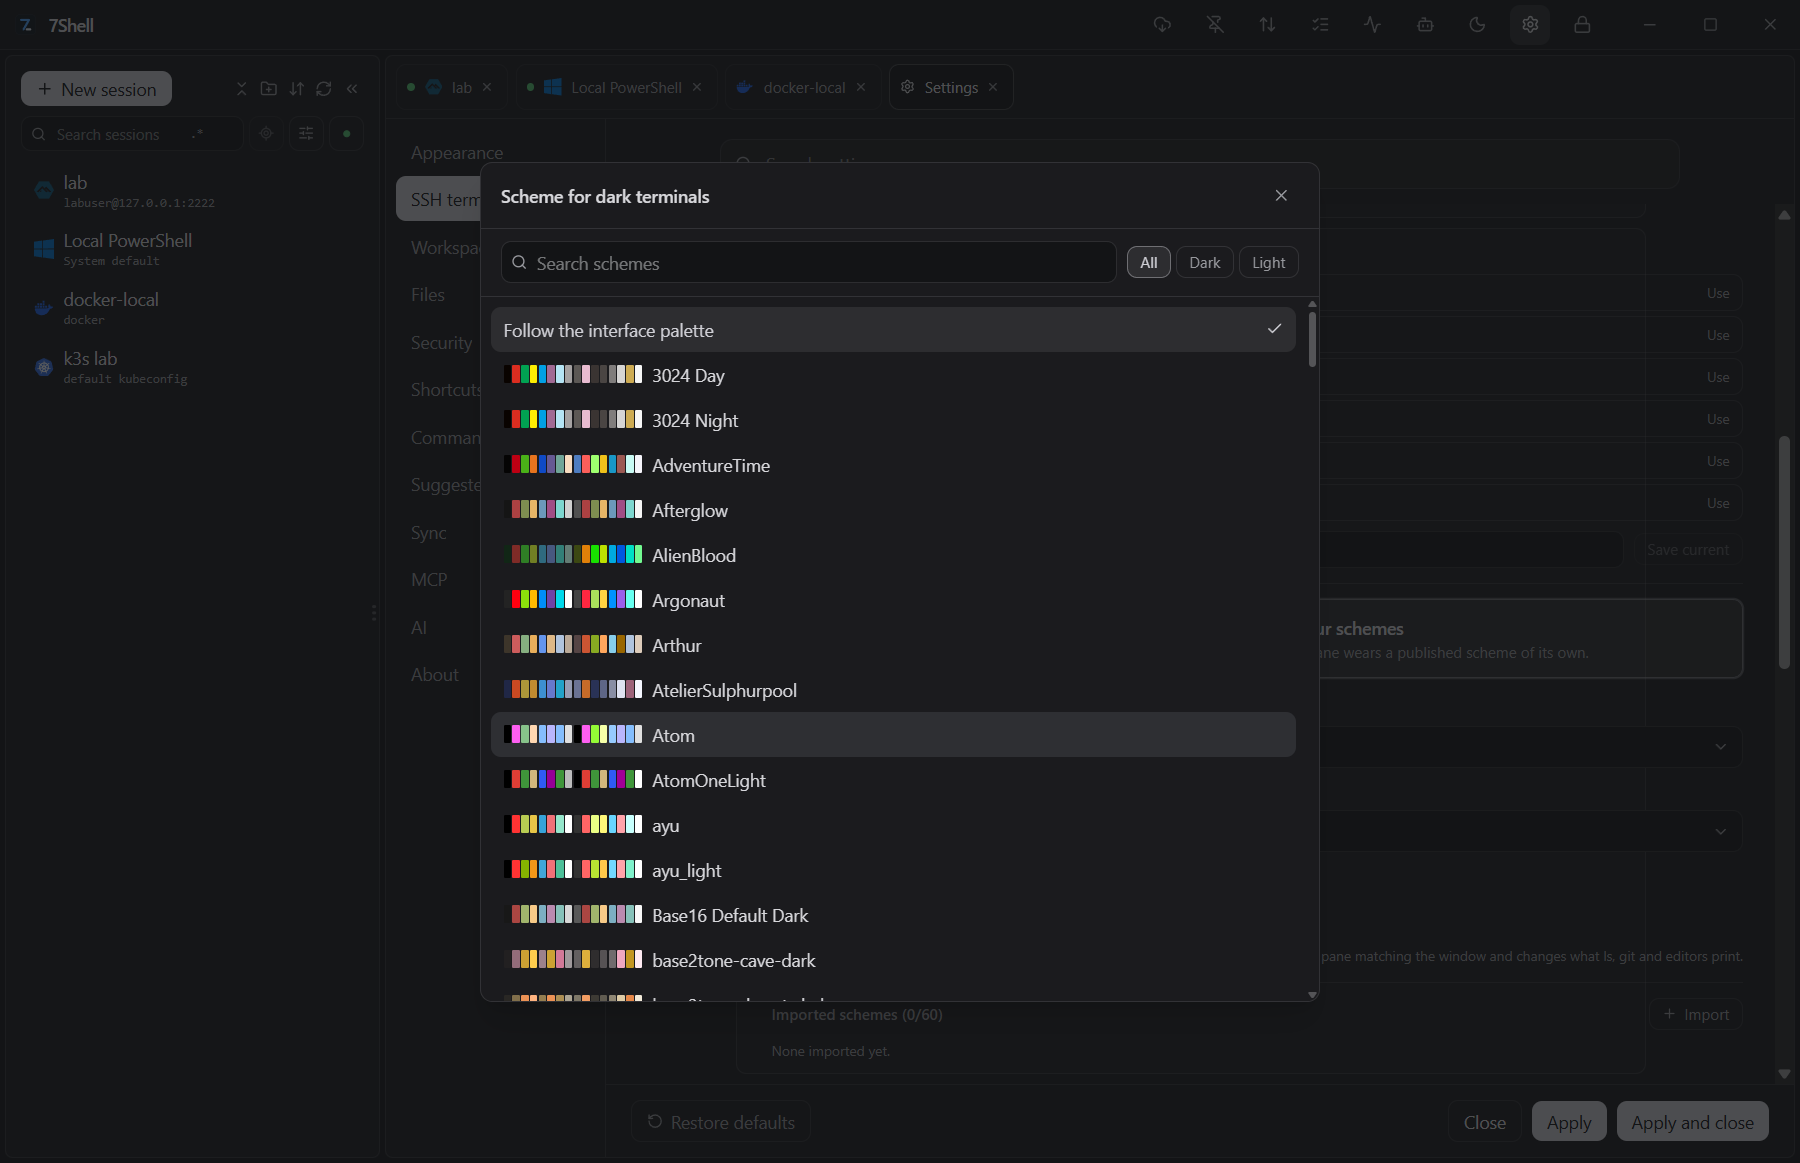
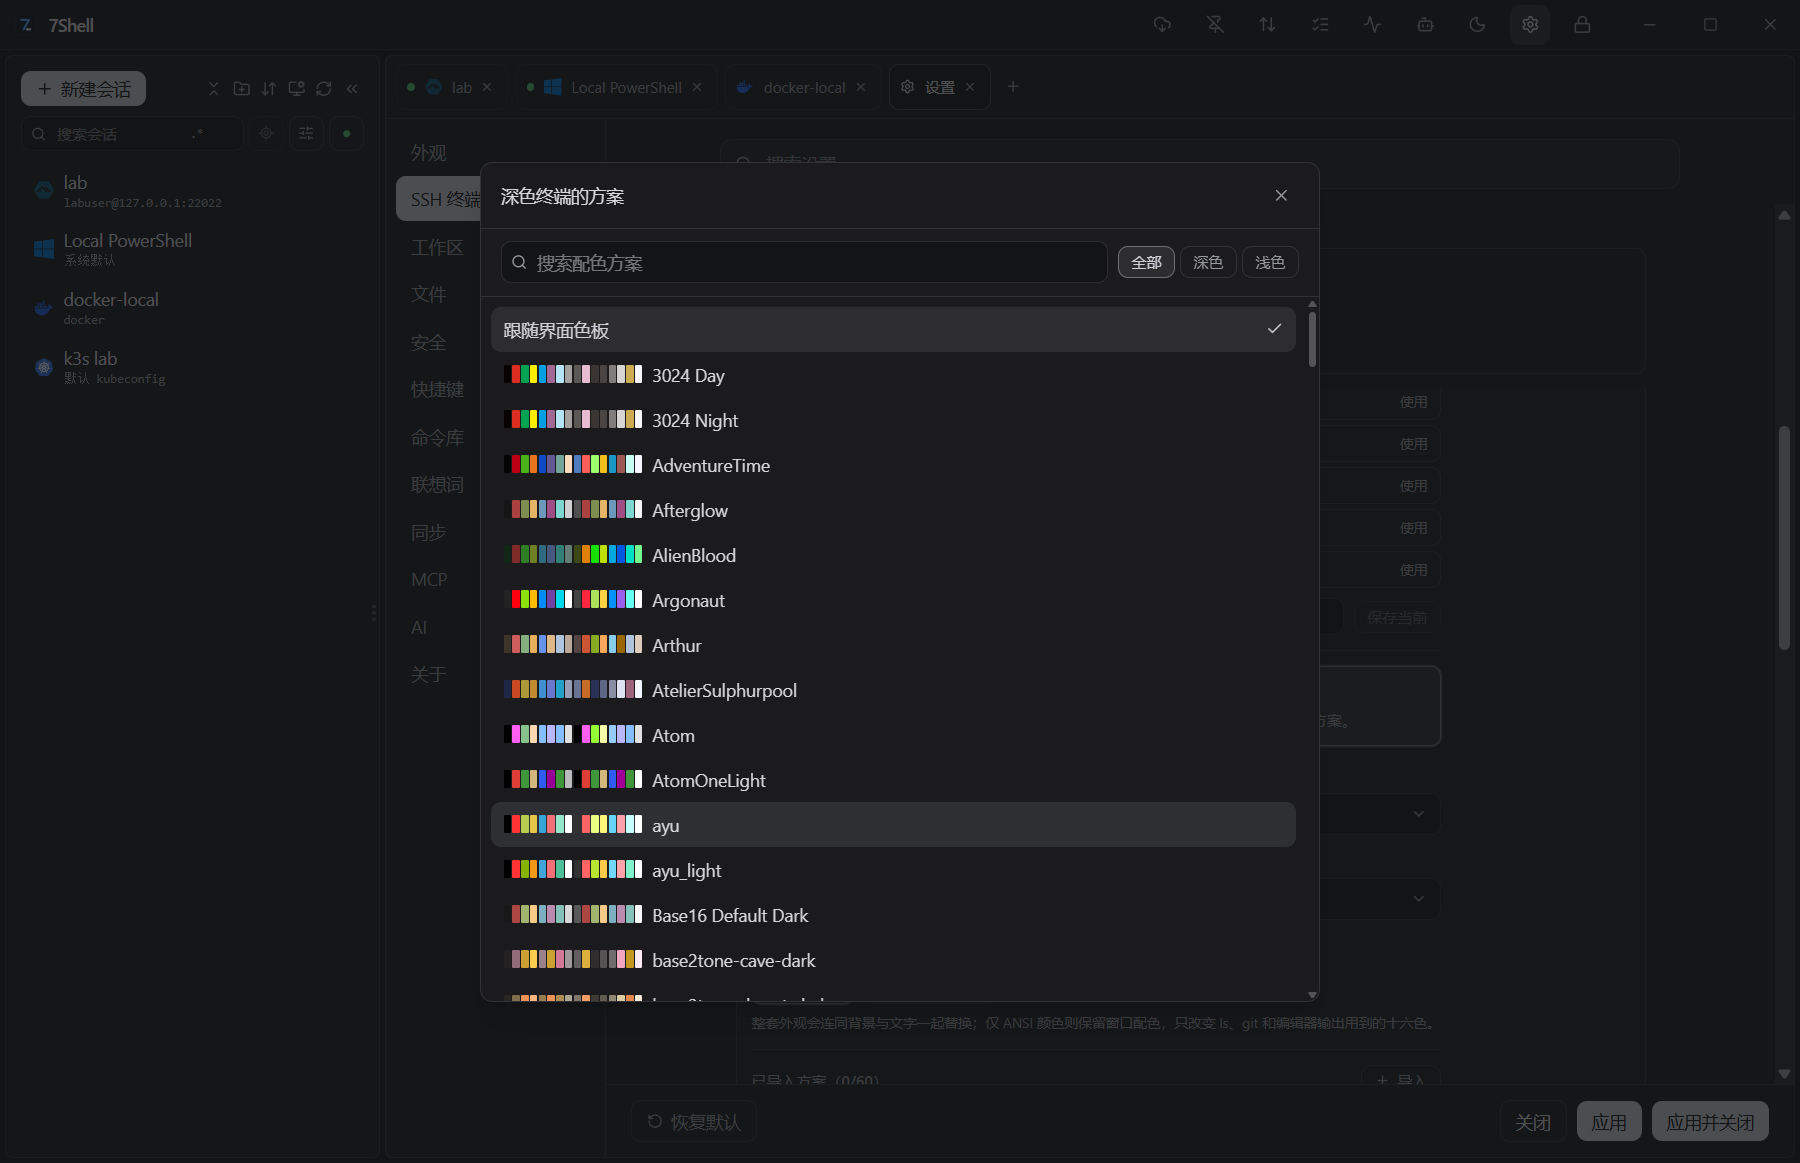
docs(screenshots): 截图改用简体中文界面重拍，采集选择器随语言钉定 [skip ci]
README 以简体中文开头，但 `pnpm screenshots` 一直用英文界面拍摄，文档和
应用的呈现对不上。采集运行现在把界面钉在简体中文（暗色主题不变），e2e
测试套件保持英文——套件选择器读的语言不变。SEVENSHELL_E2E_LOCALE 可以
覆盖任何一边。

- 采集脚本的可访问名选择器换成实际运行的中文文案；带元素 id 的字段改按
  id 查找，占位文案改词不会再悄悄弄断采集。
- 五张 README 截图（创建保险库、主机键确认、工作区、终端配色、容器）按
  中文界面重拍。

diff --git a/e2e/screenshots.capture.ts b/e2e/screenshots.capture.ts
@@ -7,6 +7,11 @@
  * moment the screen changes, and nothing would catch it — where a stale capture is at least the
  * application as it was.
  *
+ * The launcher pins this run to Simplified Chinese and the dark theme — the way the READMEs present
+ * the application — and the visible-name selectors below read that language. Fields that carry an
+ * element id are found by id instead of a translated placeholder, so a reworded string cannot
+ * quietly break the run.
+ *
  * Run it with `pnpm screenshots`, which starts the application pointed at a throwaway data
  * directory and needs the SSH lab (`make lab-up`) on the port `SEVENSHELL_TEST_*` names.
  */
@@ -51,7 +56,7 @@ function sidebar(page: Page): Locator {
 }
 
 async function hideMonitor(page: Page): Promise<void> {
-  const close = page.getByRole("button", { name: "Hide the monitor" });
+  const close = page.getByRole("button", { name: "隐藏监控面板" });
   if (await close.isVisible().catch(() => false)) {
     await close.click();
   }
@@ -59,12 +64,12 @@ async function hideMonitor(page: Page): Promise<void> {
 
 /** Saves a session without opening it, so the sidebar shows the kinds a real list contains. */
 async function saveSession(page: Page, name: string, kind: string): Promise<void> {
-  await sidebar(page).getByRole("button", { name: "New session" }).click();
+  await sidebar(page).getByRole("button", { name: "新建会话" }).click();
   const editor = page.getByRole("dialog");
-  await editor.getByPlaceholder("Production web server").fill(name);
+  await editor.locator("#session-name").fill(name);
   await editor.locator("#session-protocol").click();
   await page.getByRole("listbox").getByRole("option", { name: kind, exact: true }).click();
-  await editor.getByRole("button", { name: "Save" }).click();
+  await editor.getByRole("button", { name: "保存" }).click();
   await expect(editor).toHaveCount(0);
 }
 
@@ -81,14 +86,14 @@ test("the gate: the screen a first run opens on", async () => {
   try {
     // Nothing is filled in for this one on purpose: an empty form is what a person sees first, and
     // a picture of somebody's typed password is a picture this project would rather not publish.
-    await expect(page.getByRole("button", { name: "Create vault" })).toBeVisible();
-    await expect(page.getByPlaceholder("At least 8 characters")).toBeVisible();
+    await expect(page.getByRole("button", { name: "创建保险库" })).toBeVisible();
+    await expect(page.locator("#vault-password")).toBeVisible();
     await shot(page, "create-vault");
 
-    await page.getByPlaceholder("At least 8 characters").fill(VAULT_PASSWORD);
-    await page.getByPlaceholder("Type the password again").fill(VAULT_PASSWORD);
-    await page.getByRole("button", { name: "Create vault" }).click();
-    await expect(sidebar(page).getByRole("button", { name: "New session" })).toBeVisible();
+    await page.locator("#vault-password").fill(VAULT_PASSWORD);
+    await page.locator("#vault-confirmation").fill(VAULT_PASSWORD);
+    await page.getByRole("button", { name: "创建保险库" }).click();
+    await expect(sidebar(page).getByRole("button", { name: "新建会话" })).toBeVisible();
   } finally {
     await close();
   }
@@ -104,22 +109,26 @@ test("the first connection: the host key is a question, not a warning to dismiss
 
   const { page, close } = await openApp();
   try {
-    await sidebar(page).getByRole("button", { name: "New session" }).click();
+    await sidebar(page).getByRole("button", { name: "新建会话" }).click();
     const editor = page.getByRole("dialog");
-    await editor.getByPlaceholder("Production web server").fill("lab");
-    await editor.getByPlaceholder("example.com").fill(host as string);
+    await editor.locator("#session-name").fill("lab");
+    await editor.locator("#session-host").fill(host as string);
     await editor.locator("#session-port").fill(port);
-    await editor.getByPlaceholder("root").fill(user as string);
-    await editor.getByPlaceholder("Password", { exact: true }).fill(password as string);
-    await editor.getByRole("button", { name: "Save" }).click();
+    await editor.locator("#session-user").fill(user as string);
+    await editor.locator("#session-secret").fill(password as string);
+    await editor.getByRole("button", { name: "保存" }).click();
     await expect(editor).toHaveCount(0);
 
-    await sidebar(page).getByTitle("Open a terminal for lab").click();
+    await sidebar(page).getByTitle("为 lab 打开终端").click();
 
     // The prompt, with the fingerprint on it: this is the shot the security model is about, so it is
     // taken before anything is trusted.
-    const trust = page.getByRole("button", { name: "Trust this key and connect" });
+    const trust = page.getByRole("button", { name: "信任该键并连接" });
     await expect(trust).toBeVisible({ timeout: 60_000 });
+    // Park the pointer over the dialog: it still sits on the session row it clicked, and that row's
+    // hover card would drift into the background of a picture that is about the prompt.
+    await page.mouse.move(880, 520);
+    await page.waitForTimeout(400);
     await shot(page, "host-key-prompt");
 
     await trust.click();
@@ -134,11 +143,11 @@ test("the workspace: a terminal over a real host, with the files beside it", asy
   try {
     // A session list with more than one kind in it, and a second tab: the picture is of the
     // workspace somebody works in, not of the first terminal the capture happened to open.
-    await saveSession(page, "Local PowerShell", "Local terminal");
+    await saveSession(page, "Local PowerShell", "本地终端");
     await saveSession(page, "docker-local", "Docker");
     await saveSession(page, "k3s lab", "Kubernetes");
 
-    await sidebar(page).getByTitle("Open a terminal for Local PowerShell").click();
+    await sidebar(page).getByTitle("为 Local PowerShell 打开终端").click();
     const tabs = page.locator("[data-workspace-tabs]");
     await expect(tabs.getByRole("button", { name: "Local PowerShell", exact: true })).toBeVisible({
       timeout: 30_000,
@@ -157,16 +166,16 @@ test("the workspace: a terminal over a real host, with the files beside it", asy
     // And the file panel, pointed at a directory somebody would actually be looking at. A first
     // connection opens it at the far side's root, which on the container this runs against is a
     // scratch pad that the live tests have been writing into since the day it was created.
-    const crumbs = page.getByRole("navigation", { name: "Path" });
+    const crumbs = page.getByRole("navigation", { name: "路径" });
     if (
       await crumbs
         .first()
         .isVisible()
         .catch(() => false)
     ) {
-      await page.getByRole("listbox", { name: "Files", exact: true }).filter({ visible: true }).focus();
+      await page.getByRole("listbox", { name: "文件列表", exact: true }).filter({ visible: true }).focus();
       await page.keyboard.press("Control+L");
-      const pathBar = page.getByPlaceholder("Path");
+      const pathBar = page.getByPlaceholder("路径");
       await pathBar.fill("/etc");
       await pathBar.press("Enter");
       await expect(crumbs.getByRole("button", { name: "etc", exact: true })).toBeVisible();
@@ -192,14 +201,14 @@ test("the container workspace: a real engine and its containers", async () => {
   const { page, close } = await openApp();
   try {
     await hideMonitor(page);
-    await sidebar(page).getByTitle("Open a terminal for docker-local").click();
+    await sidebar(page).getByTitle("为 docker-local 打开终端").click();
 
-    const rail = page.getByRole("navigation", { name: "Container workspace" });
+    const rail = page.getByRole("navigation", { name: "容器工作区" });
     await expect(rail).toBeVisible({ timeout: 60_000 });
-    await rail.getByRole("button", { name: /^Containers/ }).click();
+    await rail.getByRole("button", { name: /^容器/ }).click();
     // The engine on this machine also runs whatever else its owner started; the picture is of the
     // lab this repository builds, not of the person's desktop.
-    await page.getByPlaceholder("Filter by name, image or ID").fill("sevenshell-lab");
+    await page.getByPlaceholder("按名称、镜像或 ID 过滤").fill("sevenshell-lab");
     await expect(page.getByText("sevenshell-lab-sshd").first()).toBeVisible({ timeout: 60_000 });
     await page.waitForTimeout(1500);
 
@@ -214,15 +223,12 @@ test("the terminal schemes: the catalogue a terminal is dressed from", async () 
   const { page, close } = await openApp();
   try {
     await hideMonitor(page);
-    await page.getByRole("button", { name: "Settings" }).click();
-    await page
-      .getByRole("navigation", { name: "Settings categories" })
-      .getByRole("button", { name: "SSH terminal" })
-      .click();
+    await page.locator("[data-settings-toggle]").click();
+    await page.getByRole("navigation", { name: "设置分类" }).getByRole("button", { name: "SSH 终端" }).click();
 
-    await page.getByRole("radio", { name: /^Colour schemes/ }).click();
+    await page.getByRole("radio", { name: /^配色方案/ }).click();
     await expect(page.locator("[data-terminal-schemes]")).toBeVisible();
-    await page.getByRole("button", { name: "Scheme for dark terminals" }).click();
+    await page.getByRole("button", { name: "深色终端的方案" }).click();
     await expect(page.getByRole("listbox")).toBeVisible();
     // The settings page was scrolled sideways to bring the slot into view. Put the page behind the
     // dialog back where a person would see it, so the shot is of the catalogue rather than of a
